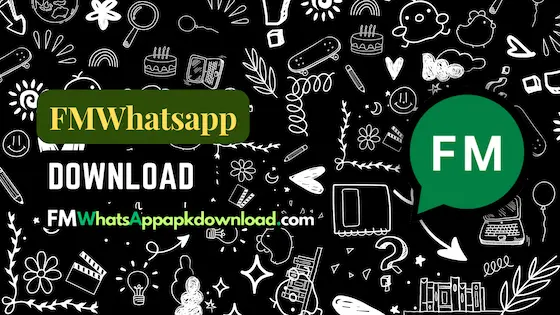
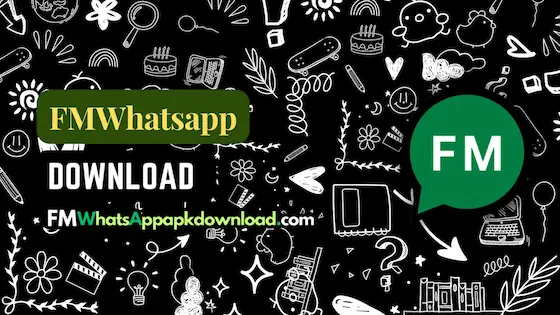
done changes ready to launch

Changed region(s): [[0.7893, 0.9714, 0.8196, 1.0]]

diff --git a/index.html b/index.html
@@ -111,7 +111,7 @@
           /> -->
           <picture>
             <source
-              src="./images/fw-whatsapp-download/fm_whatsapp-download-1x.webp"
+              src="./images/fw-whatsapp-download/fm_whatsapp-download-small.webp"
               media="(max-width:480px)"
             />
             <source
@@ -222,7 +222,7 @@
           <!-- Responsive Image -->
           <picture>
             <source
-              src="./images/fw-whatsapp-features/fw-whatsapp-features-1x.webp"
+              src="./images/fw-whatsapp-features/fw-whatsapp-features-small.webp"
               media="(max-width:480px)"
             />
             <source
@@ -300,7 +300,7 @@
 
           <picture>
             <source
-              src="./images/fm-whatsapp-settings/fm-whatsapp-settings-1x.webp"
+              src="./images/fm-whatsapp-settings/fm-whatsapp-settings-small.webp"
               media="(max-width:480px)"
             />
             <source
@@ -379,7 +379,7 @@
           <!-- Responsive Image -->
           <picture>
             <source
-              src="./images/fm-whatsapp-download-logo/fm-whatsapp-download-logo-1x.webp"
+              src="./images/fm-whatsapp-download-logo/fm-whatsapp-download-logo-small.webp"
               media="(max-width:480px)"
             />
             <source
@@ -407,7 +407,7 @@
           <!-- Responsive Images -->
           <picture>
             <source
-              src="./images/fw-whatsapp-download/fm_whatsapp-download-1x.webp"
+              src="./images/fw-whatsapp-download/fm_whatsapp-download-small.webp"
               media="(max-width:480px)"
             />
             <source
@@ -482,7 +482,7 @@
           <!-- Responsive Images -->
           <picture>
             <source
-              src="./images/fm-whatsapp-apk-features/fm-whatsapp-apk-features-1x.webp"
+              src="./images/fm-whatsapp-apk-features/fm-whatsapp-apk-features-small.webp"
               media="(max-width:480px)"
             />
             <source
@@ -722,7 +722,7 @@
           <!-- Responsive Image -->
           <picture>
             <source
-              src="./images/fm-whatsapp-apk-features/fm-whatsapp-apk-features-1x.webp"
+              src="./images/fm-whatsapp-apk-features/fm-whatsapp-apk-features-small.webp"
               media="(max-width:480px)"
             />
             <source
@@ -750,7 +750,7 @@
           <!-- Responsive image -->
           <picture>
             <source
-              src="./images/fw-whatsapp-download/fm_whatsapp-download-1x.webp"
+              src="./images/fw-whatsapp-download/fm_whatsapp-download-small.webp"
               media="(max-width:480px)"
             />
             <source
